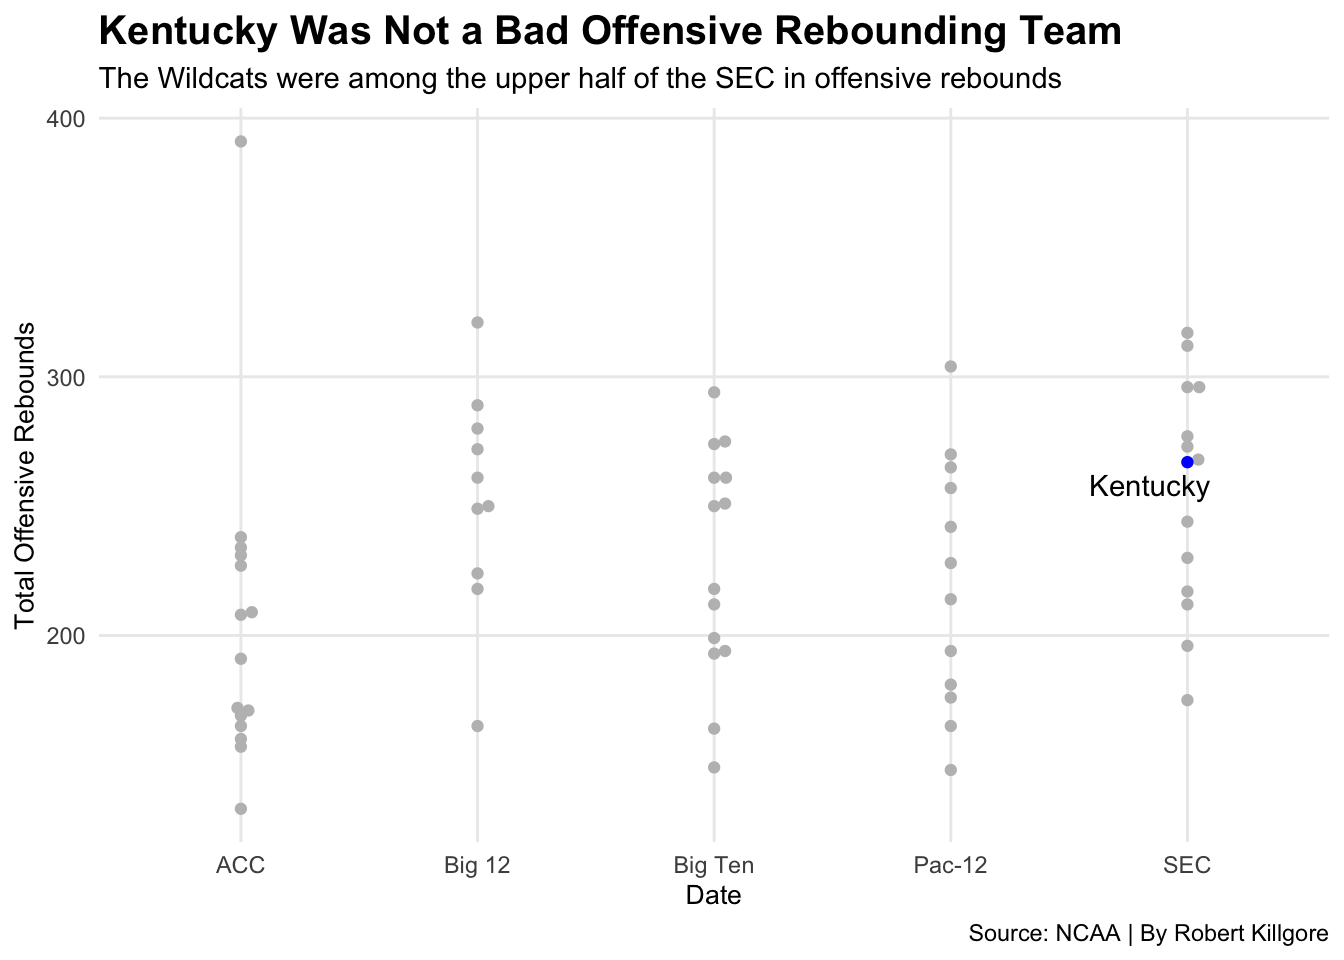
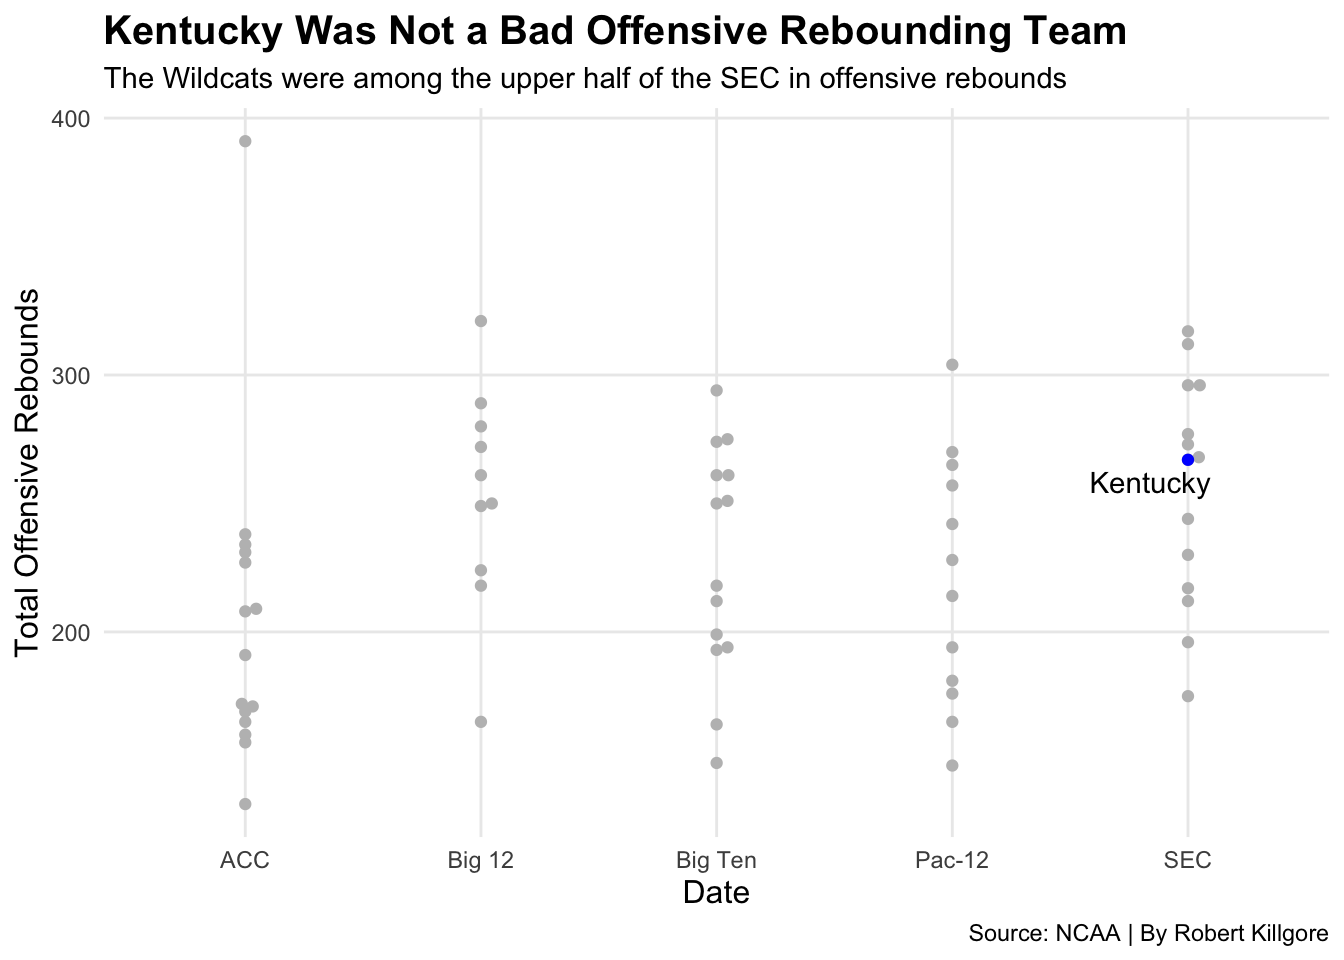
Last one hopefully

diff --git a/2021/04/02/what-went-wrong-for-kentucky-basketball-this-season/index.html b/2021/04/02/what-went-wrong-for-kentucky-basketball-this-season/index.html
@@ -105,7 +105,7 @@
 <p>To get started, I’m going to look at cumulative point differential for the teams in the SEC. You would think a team with a positive point differential should be at least .500 while a team with a negative point differential should be below .500.</p>
 <pre class="r"><code>sec &lt;- logs21 %&gt;% 
 mutate(pointdifferential = TeamScore - OpponentScore) %&gt;% 
-group_by(Team) %&gt;% mutate(CumPointDiff = cumsum(pointdifferential)) %&gt;% filter(Conference == &quot;SEC&quot;)</code></pre>
+group_by(Team) %&gt;% mutate(CumPointDiff = cumsum(pointdifferential)) %&gt;%  filter(Conference == &quot;SEC&quot;)</code></pre>
 <p>Now that we got the cumulative point differential for each team in the SEC, let’s compare Kentucky to the 22-6 Arkansas Razorbacks and the 13-14 Auburn Tigers.</p>
 <pre class="r"><code>uk &lt;- sec %&gt;% filter(Team == &quot;Kentucky&quot;) 
 ark &lt;- sec %&gt;% filter(Team == &quot;Arkansas&quot;)
@@ -196,7 +196,9 @@ Kentucky ended up the year with less turnovers than top teams like Alabama and A
 <pre class="r"><code>powerfive &lt;- c(&quot;SEC&quot;, &quot;Big Ten&quot;, &quot;Pac-12&quot;, &quot;Big 12&quot;, &quot;ACC&quot;)</code></pre>
 <pre class="r"><code>powerfive &lt;- logs21 %&gt;% filter(Conference %in% powerfive)</code></pre>
 <p>Next, I need to find out the field goal percent average for the power five throughout the season and Kentucky’s. Then using that information, we can compare Kentucky’s field goal percentage throughout the season to the power five.</p>
-<pre class="r"><code>fieldgoalaverage &lt;- logs21 %&gt;% group_by(Date) %&gt;% summarise(mean_fieldgoalshooting=mean(TeamFGPCT))</code></pre>
+<pre class="r"><code>fieldgoalaverage &lt;- logs21 %&gt;% 
+  group_by(Date) %&gt;% 
+  summarise(mean_fieldgoalshooting=mean(TeamFGPCT))</code></pre>
 <pre class="r"><code>uk &lt;- logs21 %&gt;% filter(Team == &quot;Kentucky&quot;)</code></pre>
 <pre class="r"><code>ggplot() + 
   geom_line(data = powerfive, aes(x=Date, y=TeamFGPCT, group=Team), color=&quot;grey&quot;) + geom_line(data=uk, aes(x=Date, y=TeamFGPCT), color=&quot;blue&quot;) + 
@@ -218,7 +220,7 @@ library(ggbeeswarm)
 library(ggrepel)</code></pre>
 <pre class="r"><code>offensiverebounds &lt;- logs21 %&gt;%
   group_by(Team, Conference) %&gt;% 
-  summarise(totaloffensiverebounds= sum(TeamOffRebounds)) %&gt;% filter(Conference==&quot;Big Ten&quot;| Conference== &quot;SEC&quot;| Conference== &quot;Big 12&quot;| Conference== &quot;ACC&quot;| Conference== &quot;Pac-12&quot;) </code></pre>
+  summarise(totaloffensiverebounds= sum(TeamOffRebounds)) %&gt;%     filter(Conference==&quot;Big Ten&quot;| Conference== &quot;SEC&quot;| Conference== &quot;Big 12&quot;| Conference== &quot;ACC&quot;| Conference== &quot;Pac-12&quot;) </code></pre>
 <pre><code>## `summarise()` has grouped output by &#39;Team&#39;. You can override using the `.groups` argument.</code></pre>
 <p>Next, we have to filter out for Kentucky. Then we can create a beeswarm plot comparing power five teams in offensive rebounds</p>
 <pre class="r"><code>uk &lt;- offensiverebounds %&gt;% filter(Team== &quot;Kentucky&quot;)</code></pre>
@@ -233,7 +235,7 @@ library(ggrepel)</code></pre>
     caption=&quot;Source: NCAA | By Robert Killgore&quot;) +
   theme_minimal() +  theme(
     plot.title = element_text(size = 15, face = &quot;bold&quot;),
-    axis.title = element_text(size = 10), 
+    axis.title = element_text(size = 12), 
     plot.subtitle = element_text(size=11), 
     panel.grid.minor = element_blank()
     ) </code></pre>
